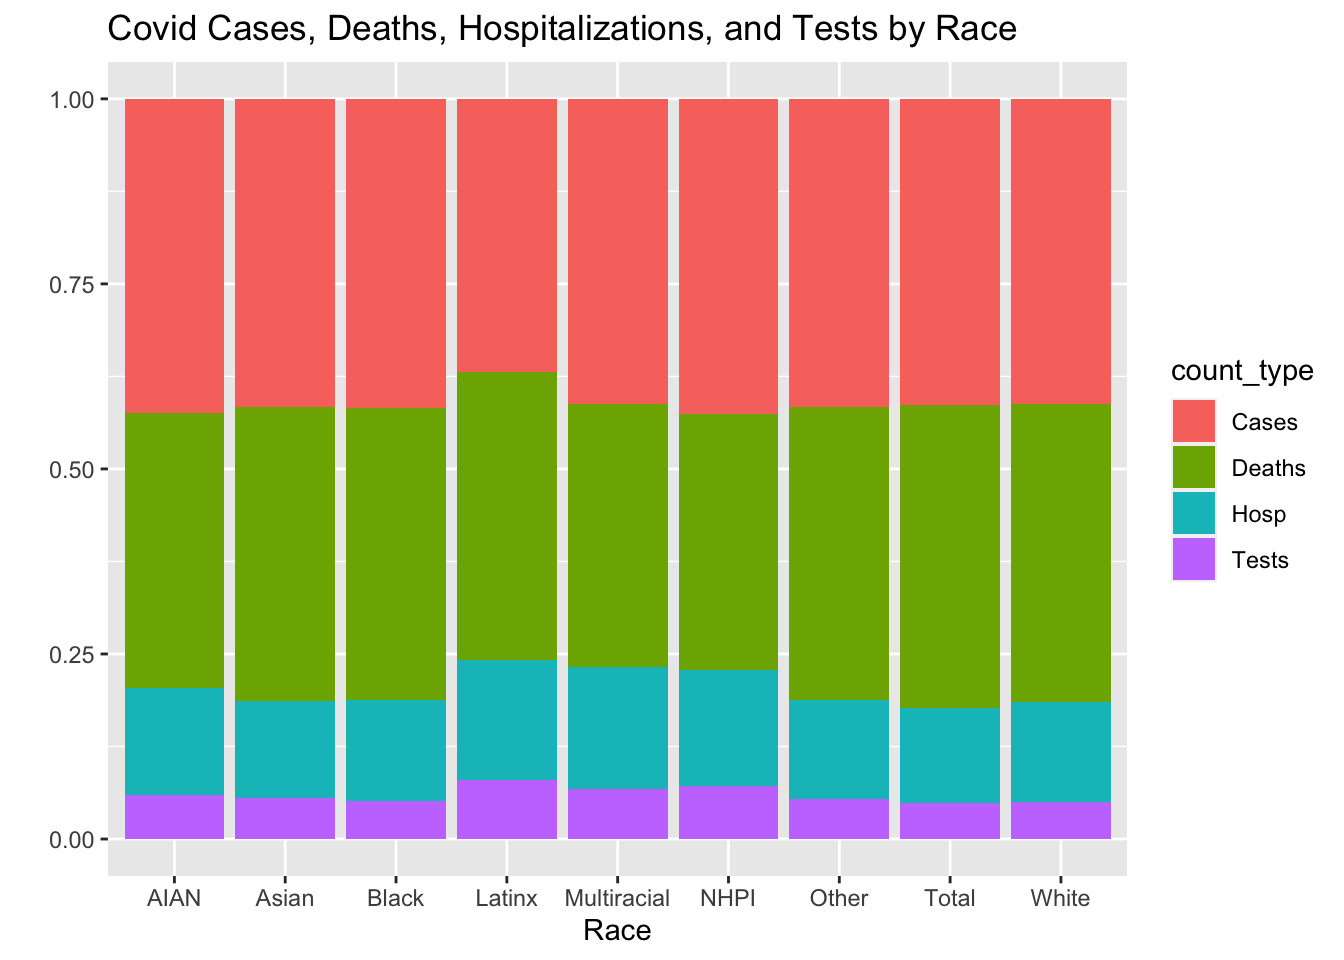
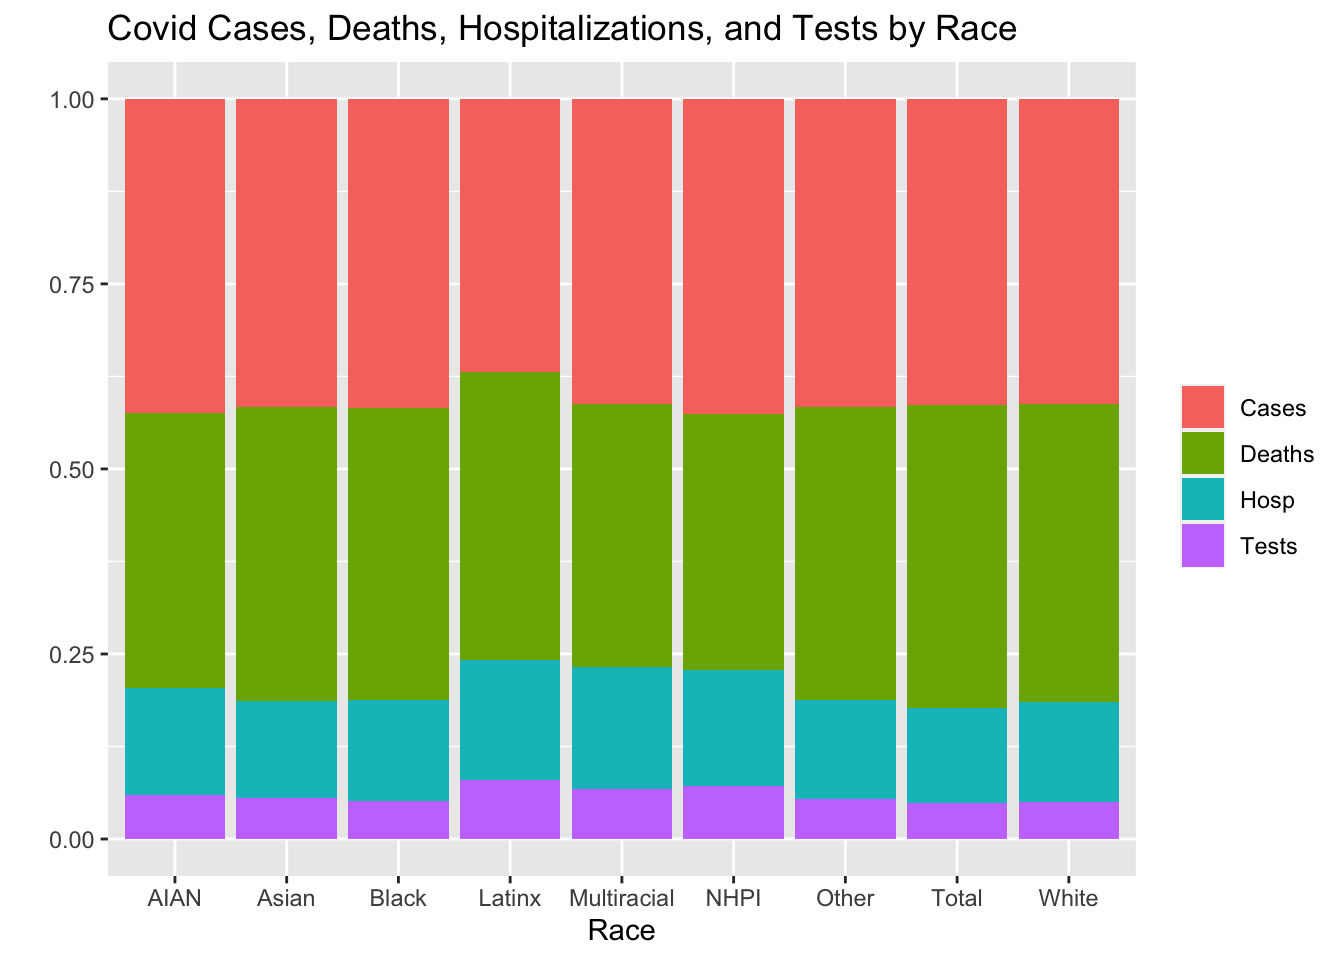
Second attempt

diff --git a/Week_02_Covid_Vis.html b/Week_02_Covid_Vis.html
@@ -156,7 +156,8 @@ pre > code.sourceCode > span > a:first-child::before { text-decoration: underlin
 <div class="sourceCode cell-code" id="cb8"><pre class="sourceCode r code-with-copy"><code class="sourceCode r"><span id="cb8-1"><a href="#cb8-1" aria-hidden="true" tabindex="-1"></a>covid_data_long <span class="sc">|&gt;</span> </span>
 <span id="cb8-2"><a href="#cb8-2" aria-hidden="true" tabindex="-1"></a>  <span class="fu">ggplot</span>(<span class="fu">aes</span>(<span class="at">x =</span> race, <span class="at">fill =</span> count_type)) <span class="sc">+</span></span>
 <span id="cb8-3"><a href="#cb8-3" aria-hidden="true" tabindex="-1"></a>  <span class="fu">geom_bar</span>(<span class="at">position =</span> <span class="st">"fill"</span>) <span class="sc">+</span> </span>
-<span id="cb8-4"><a href="#cb8-4" aria-hidden="true" tabindex="-1"></a>  <span class="fu">labs</span>(<span class="at">title =</span> <span class="st">"Covid Cases, Deaths, Hospitalizations, and Tests by Race"</span>, <span class="at">x =</span> <span class="st">"Race"</span>, <span class="at">y =</span> <span class="st">""</span>)</span></code><button title="Copy to Clipboard" class="code-copy-button"><i class="bi"></i></button></pre></div>
+<span id="cb8-4"><a href="#cb8-4" aria-hidden="true" tabindex="-1"></a>  <span class="fu">labs</span>(<span class="at">title =</span> <span class="st">"Covid Cases, Deaths, Hospitalizations, and Tests by Race"</span>, <span class="at">x =</span> <span class="st">"Race"</span>, <span class="at">y =</span> <span class="st">""</span>) <span class="sc">+</span></span>
+<span id="cb8-5"><a href="#cb8-5" aria-hidden="true" tabindex="-1"></a>  <span class="fu">theme</span>(<span class="at">legend.title =</span> <span class="fu">element_blank</span>())</span></code><button title="Copy to Clipboard" class="code-copy-button"><i class="bi"></i></button></pre></div>
 <div class="cell-output-display">
 <p><img src="Week_02_Covid_Vis_files/figure-html/unnamed-chunk-2-1.png" class="img-fluid" width="672"></p>
 </div>
